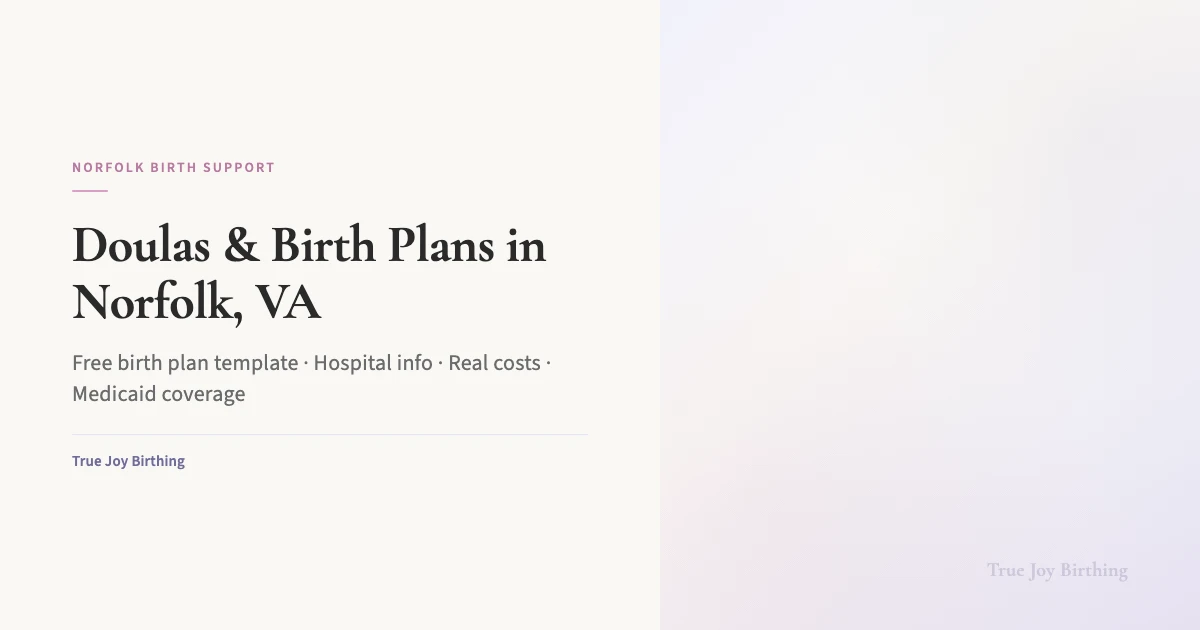
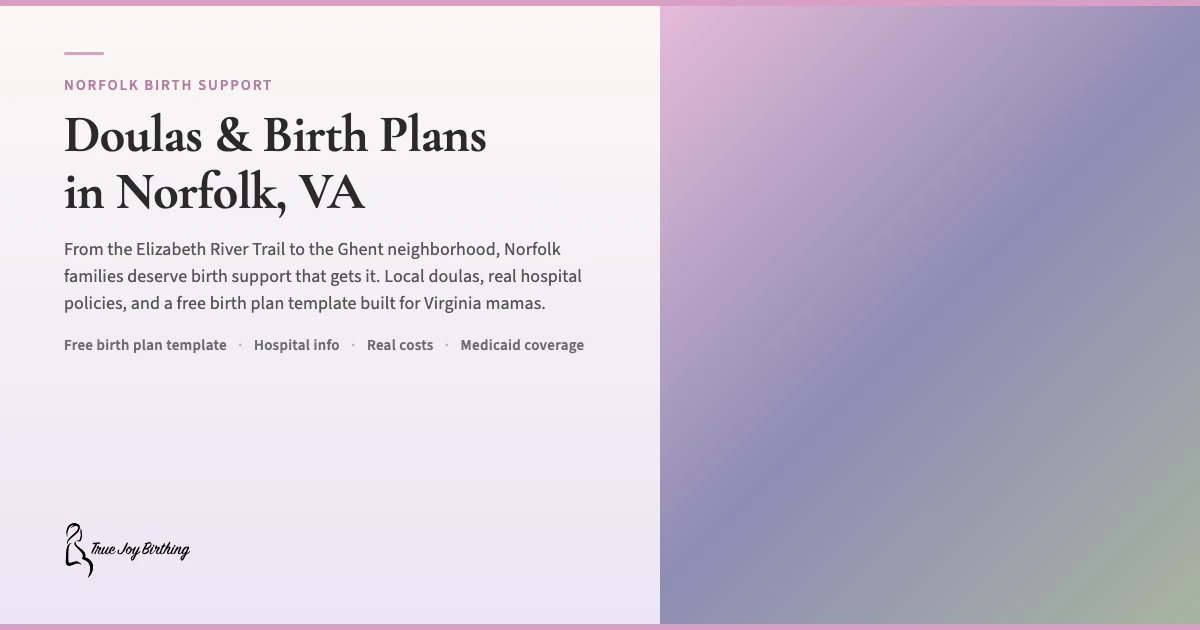
fix: rebuild OG images using canonical Pattern B v2 template for Norfolk, Fremont, Vancouver
Replaced legacy v1 OG cards (no rose bars, no mono logo, no summary, no gradient)
with proper Pattern B v2 split layout:
- Cream-to-lavender gradient left column
- Branded gradient right column (rose→lavender→sage)
- Rose accent bars top/bottom on both columns
- 56px logo-mono.svg bottom-left
- City-specific eyebrow + summary text
- 'Free birth plan template · Hospital info · Real costs · Medicaid coverage' subhead

diff --git a/scripts/render-norfolk-og.html b/scripts/render-norfolk-og.html
@@ -1,0 +1,148 @@
+<!DOCTYPE html>
+<html>
+<head>
+<meta charset="utf-8">
+<link rel="preconnect" href="https://fonts.googleapis.com">
+<link rel="preconnect" href="https://fonts.gstatic.com" crossorigin>
+<link href="https://fonts.googleapis.com/css2?family=Cormorant+Garamond:wght@600;700&family=Source+Sans+3:wght@400;600;700&display=swap" rel="stylesheet">
+<style>
+  * { margin: 0; padding: 0; box-sizing: border-box; }
+  html, body {
+    width: 1200px;
+    height: 630px;
+    background: #FAF8F5;
+    overflow: hidden;
+  }
+  .og-card {
+    display: flex;
+    flex-direction: row;
+    width: 1200px;
+    height: 630px;
+  }
+  .left-column {
+    width: 660px;
+    display: flex;
+    flex-direction: column;
+    justify-content: center;
+    padding: 52px 64px;
+    background: linear-gradient(180deg, #FAF8F5 0%, #EDE5F5 100%);
+    position: relative;
+  }
+  .left-column::before {
+    content: '';
+    position: absolute;
+    top: 0;
+    left: 0;
+    right: 0;
+    height: 6px;
+    background: #D8A0C4;
+  }
+  .left-column::after {
+    content: '';
+    position: absolute;
+    bottom: 0;
+    left: 0;
+    right: 0;
+    height: 6px;
+    background: #D8A0C4;
+  }
+  .right-column {
+    width: 540px;
+    position: relative;
+    overflow: hidden;
+    background: linear-gradient(135deg, #E6BBD8 0%, #8E8CB5 50%, #A8B5A0 100%);
+  }
+  .right-column::before {
+    content: '';
+    position: absolute;
+    top: 0;
+    left: 0;
+    right: 0;
+    height: 6px;
+    background: #D8A0C4;
+    z-index: 2;
+  }
+  .right-column::after {
+    content: '';
+    position: absolute;
+    bottom: 0;
+    left: 0;
+    right: 0;
+    height: 6px;
+    background: #D8A0C4;
+    z-index: 2;
+  }
+  .accent-line {
+    width: 40px;
+    height: 3px;
+    background: #D8A0C4;
+    border-radius: 2px;
+    margin-bottom: 20px;
+  }
+  .eyebrow {
+    font-family: 'Source Sans 3', system-ui, sans-serif;
+    font-weight: 600;
+    font-size: 15px;
+    color: #B87AA0;
+    text-transform: uppercase;
+    letter-spacing: 0.12em;
+    margin-bottom: 10px;
+  }
+  .headline {
+    font-family: 'Cormorant Garamond', Georgia, serif;
+    font-weight: 700;
+    font-size: 52px;
+    color: #2A2A2A;
+    letter-spacing: -0.01em;
+    line-height: 1.1;
+    margin-bottom: 16px;
+  }
+  .summary {
+    font-family: 'Source Sans 3', system-ui, sans-serif;
+    font-weight: 400;
+    font-size: 18px;
+    color: #555555;
+    letter-spacing: 0.005em;
+    line-height: 1.5;
+    margin-bottom: 18px;
+    max-width: 520px;
+  }
+  .subhead {
+    font-family: 'Source Sans 3', system-ui, sans-serif;
+    font-weight: 600;
+    font-size: 15px;
+    color: #6A6B6C;
+    letter-spacing: 0.02em;
+  }
+  .subhead span {
+    margin: 0 8px;
+    color: #D8A0C4;
+  }
+  .logo-area {
+    margin-top: auto;
+    padding-top: 20px;
+    display: flex;
+    align-items: center;
+  }
+  .logo-area img {
+    height: 56px;
+    width: auto;
+  }
+</style>
+</head>
+<body>
+<div class="og-card">
+  <div class="left-column">
+    <div class="accent-line"></div>
+    <div class="eyebrow">NORFOLK BIRTH SUPPORT</div>
+    <div class="headline">Doulas & Birth Plans<br>in Norfolk, VA</div>
+    <div class="summary">From the Elizabeth River Trail to the Ghent neighborhood, Norfolk families deserve birth support that gets it. Local doulas, real hospital policies, and a free birth plan template built for Virginia mamas.</div>
+    <div class="subhead">Free birth plan template <span>·</span> Hospital info <span>·</span> Real costs <span>·</span> Medicaid coverage</div>
+    <div class="logo-area">
+      <img src="https://truejoybirthing.com/images/logo-mono.svg" alt="True Joy Birthing" />
+    </div>
+  </div>
+  <div class="right-column"></div>
+</div>
+</body>
+</html>

diff --git a/scripts/render-fremont-og.html b/scripts/render-fremont-og.html
@@ -1,0 +1,60 @@
+<!DOCTYPE html>
+<html>
+<head>
+<meta charset="utf-8">
+<link rel="preconnect" href="https://fonts.googleapis.com">
+<link rel="preconnect" href="https://fonts.gstatic.com" crossorigin>
+<link href="https://fonts.googleapis.com/css2?family=Cormorant+Garamond:wght@600;700&family=Source+Sans+3:wght@400;600;700&display=swap" rel="stylesheet">
+<style>
+  * { margin: 0; padding: 0; box-sizing: border-box; }
+  html, body {
+    width: 1200px;
+    height: 630px;
+    background: #FAF8F5;
+    overflow: hidden;
+  }
+  .og-card { display: flex; flex-direction: row; width: 1200px; height: 630px; }
+  .left-column {
+    width: 660px; display: flex; flex-direction: column; justify-content: center;
+    padding: 52px 64px;
+    background: linear-gradient(180deg, #FAF8F5 0%, #EDE5F5 100%);
+    position: relative;
+  }
+  .left-column::before, .left-column::after { content: ''; position: absolute; left: 0; right: 0; height: 6px; background: #D8A0C4; }
+  .left-column::before { top: 0; }
+  .left-column::after { bottom: 0; }
+  .right-column {
+    width: 540px; position: relative; overflow: hidden;
+    background: linear-gradient(135deg, #E6BBD8 0%, #8E8CB5 50%, #A8B5A0 100%);
+  }
+  .right-column::before, .right-column::after {
+    content: ''; position: absolute; left: 0; right: 0; height: 6px; background: #D8A0C4; z-index: 2;
+  }
+  .right-column::before { top: 0; }
+  .right-column::after { bottom: 0; }
+  .accent-line { width: 40px; height: 3px; background: #D8A0C4; border-radius: 2px; margin-bottom: 20px; }
+  .eyebrow { font-family: 'Source Sans 3', sans-serif; font-weight: 600; font-size: 15px; color: #B87AA0; text-transform: uppercase; letter-spacing: 0.12em; margin-bottom: 10px; }
+  .headline { font-family: 'Cormorant Garamond', Georgia, serif; font-weight: 700; font-size: 52px; color: #2A2A2A; letter-spacing: -0.01em; line-height: 1.1; margin-bottom: 16px; }
+  .summary { font-family: 'Source Sans 3', sans-serif; font-weight: 400; font-size: 18px; color: #555555; line-height: 1.5; margin-bottom: 18px; max-width: 520px; }
+  .subhead { font-family: 'Source Sans 3', sans-serif; font-weight: 600; font-size: 15px; color: #6A6B6C; }
+  .subhead span { margin: 0 8px; color: #D8A0C4; }
+  .logo-area { margin-top: auto; padding-top: 20px; display: flex; align-items: center; }
+  .logo-area img { height: 56px; width: auto; }
+</style>
+</head>
+<body>
+<div class="og-card">
+  <div class="left-column">
+    <div class="accent-line"></div>
+    <div class="eyebrow">FREMONT BIRTH SUPPORT</div>
+    <div class="headline">Doulas & Birth Plans<br>in Fremont, CA</div>
+    <div class="summary">From Lake Elizabeth to the East Bay hills, Fremont families deserve birth support that gets it. Local doulas, real hospital policies, and a free birth plan template built for California mamas.</div>
+    <div class="subhead">Free birth plan template <span>·</span> Hospital info <span>·</span> Real costs <span>·</span> Medicaid coverage</div>
+    <div class="logo-area">
+      <img src="https://truejoybirthing.com/images/logo-mono.svg" alt="True Joy Birthing" />
+    </div>
+  </div>
+  <div class="right-column"></div>
+</div>
+</body>
+</html>

diff --git a/scripts/render-vancouver-og.html b/scripts/render-vancouver-og.html
@@ -1,0 +1,60 @@
+<!DOCTYPE html>
+<html>
+<head>
+<meta charset="utf-8">
+<link rel="preconnect" href="https://fonts.googleapis.com">
+<link rel="preconnect" href="https://fonts.gstatic.com" crossorigin>
+<link href="https://fonts.googleapis.com/css2?family=Cormorant+Garamond:wght@600;700&family=Source+Sans+3:wght@400;600;700&display=swap" rel="stylesheet">
+<style>
+  * { margin: 0; padding: 0; box-sizing: border-box; }
+  html, body {
+    width: 1200px;
+    height: 630px;
+    background: #FAF8F5;
+    overflow: hidden;
+  }
+  .og-card { display: flex; flex-direction: row; width: 1200px; height: 630px; }
+  .left-column {
+    width: 660px; display: flex; flex-direction: column; justify-content: center;
+    padding: 52px 64px;
+    background: linear-gradient(180deg, #FAF8F5 0%, #EDE5F5 100%);
+    position: relative;
+  }
+  .left-column::before, .left-column::after { content: ''; position: absolute; left: 0; right: 0; height: 6px; background: #D8A0C4; }
+  .left-column::before { top: 0; }
+  .left-column::after { bottom: 0; }
+  .right-column {
+    width: 540px; position: relative; overflow: hidden;
+    background: linear-gradient(135deg, #E6BBD8 0%, #8E8CB5 50%, #A8B5A0 100%);
+  }
+  .right-column::before, .right-column::after {
+    content: ''; position: absolute; left: 0; right: 0; height: 6px; background: #D8A0C4; z-index: 2;
+  }
+  .right-column::before { top: 0; }
+  .right-column::after { bottom: 0; }
+  .accent-line { width: 40px; height: 3px; background: #D8A0C4; border-radius: 2px; margin-bottom: 20px; }
+  .eyebrow { font-family: 'Source Sans 3', sans-serif; font-weight: 600; font-size: 15px; color: #B87AA0; text-transform: uppercase; letter-spacing: 0.12em; margin-bottom: 10px; }
+  .headline { font-family: 'Cormorant Garamond', Georgia, serif; font-weight: 700; font-size: 52px; color: #2A2A2A; letter-spacing: -0.01em; line-height: 1.1; margin-bottom: 16px; }
+  .summary { font-family: 'Source Sans 3', sans-serif; font-weight: 400; font-size: 18px; color: #555555; line-height: 1.5; margin-bottom: 18px; max-width: 520px; }
+  .subhead { font-family: 'Source Sans 3', sans-serif; font-weight: 600; font-size: 15px; color: #6A6B6C; }
+  .subhead span { margin: 0 8px; color: #D8A0C4; }
+  .logo-area { margin-top: auto; padding-top: 20px; display: flex; align-items: center; }
+  .logo-area img { height: 56px; width: auto; }
+</style>
+</head>
+<body>
+<div class="og-card">
+  <div class="left-column">
+    <div class="accent-line"></div>
+    <div class="eyebrow">VANCOUVER BIRTH SUPPORT</div>
+    <div class="headline">Doulas & Birth Plans<br>in Vancouver, WA</div>
+    <div class="summary">From the Columbia River waterfront to Salmon Creek, Vancouver families deserve birth support that gets it. Local doulas, real hospital policies, and a free birth plan template built for Washington mamas.</div>
+    <div class="subhead">Free birth plan template <span>·</span> Hospital info <span>·</span> Real costs <span>·</span> Medicaid coverage</div>
+    <div class="logo-area">
+      <img src="https://truejoybirthing.com/images/logo-mono.svg" alt="True Joy Birthing" />
+    </div>
+  </div>
+  <div class="right-column"></div>
+</div>
+</body>
+</html>